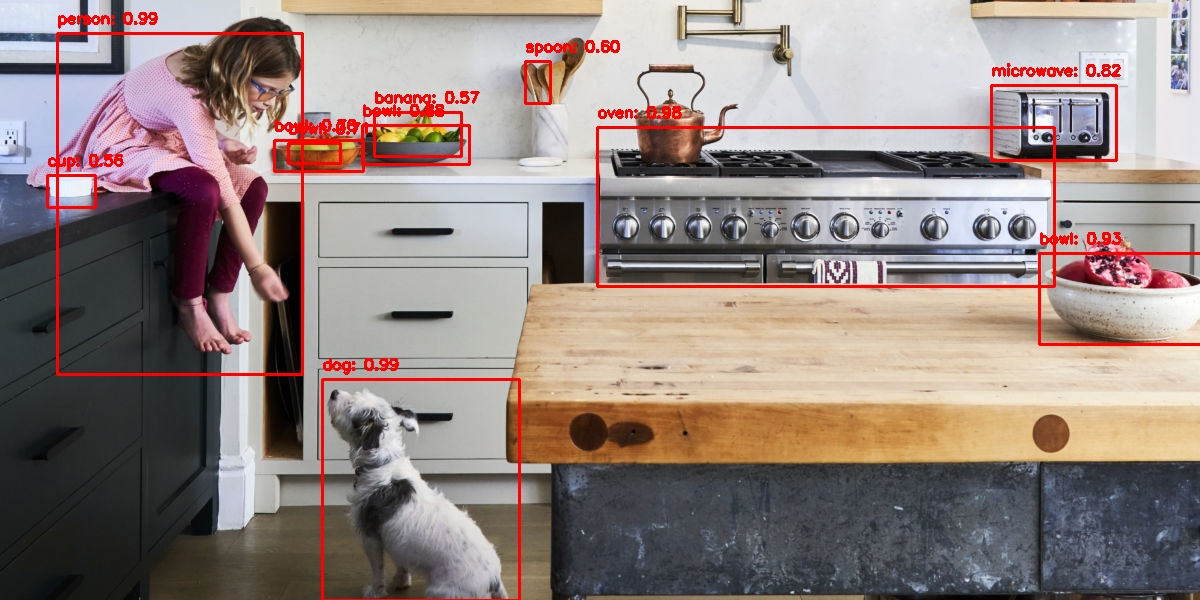
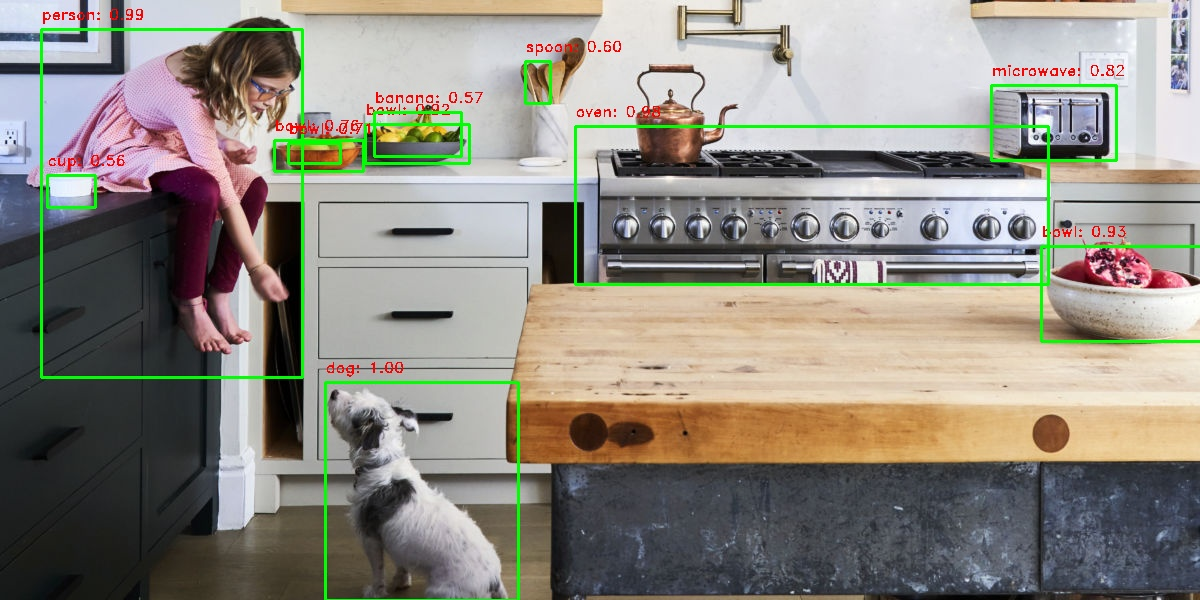
update yolo_detector.py

Changed region(s): [[0.0308, 0.0, 0.4625, 1.0], [0.4625, 0.09, 1.0, 0.6], [0.4317, 0.06, 0.5242, 0.18]]

diff --git a/yolov3/yolo_detector.py b/yolov3/yolo_detector.py
@@ -570,6 +570,7 @@ def draw_detections(img, detections, img_size=416):
     dw = (img_size - new_w) // 2
     dh = (img_size - new_h) // 2
     
+    
     colour = (0, 255, 0)  # Red in RGB format
     
     # Process each detection
@@ -589,7 +590,7 @@ def draw_detections(img, detections, img_size=416):
         # Create label with class name and confidence score
         label = f'{COCO_CLASSES[int(cls)]}: {conf:.2f}'
         # Draw label above the bounding box
-        cv2.putText(img, label, (x1, y1 - 10), 0.5, colour, 2)
+        cv2.putText(img, label, (x1, y1 - 10), cv2.FONT_HERSHEY_DUPLEX, 0.5, 255)
         
     # Image is modified in-place
     return img
